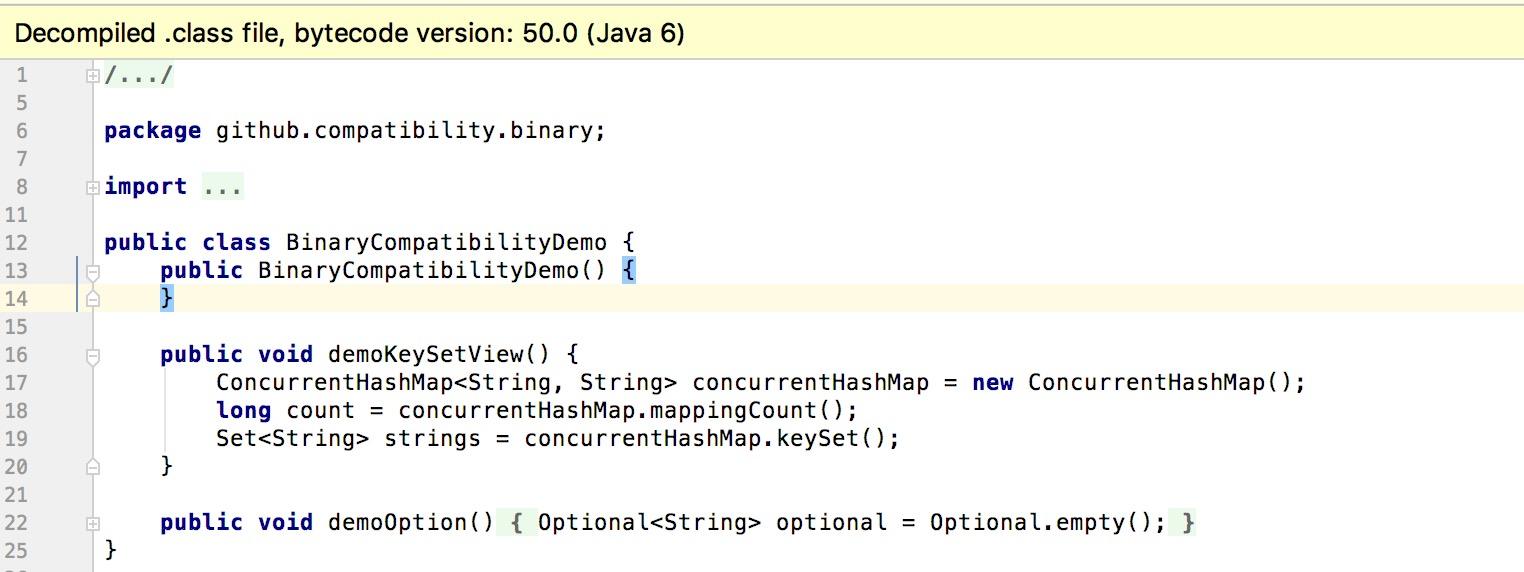
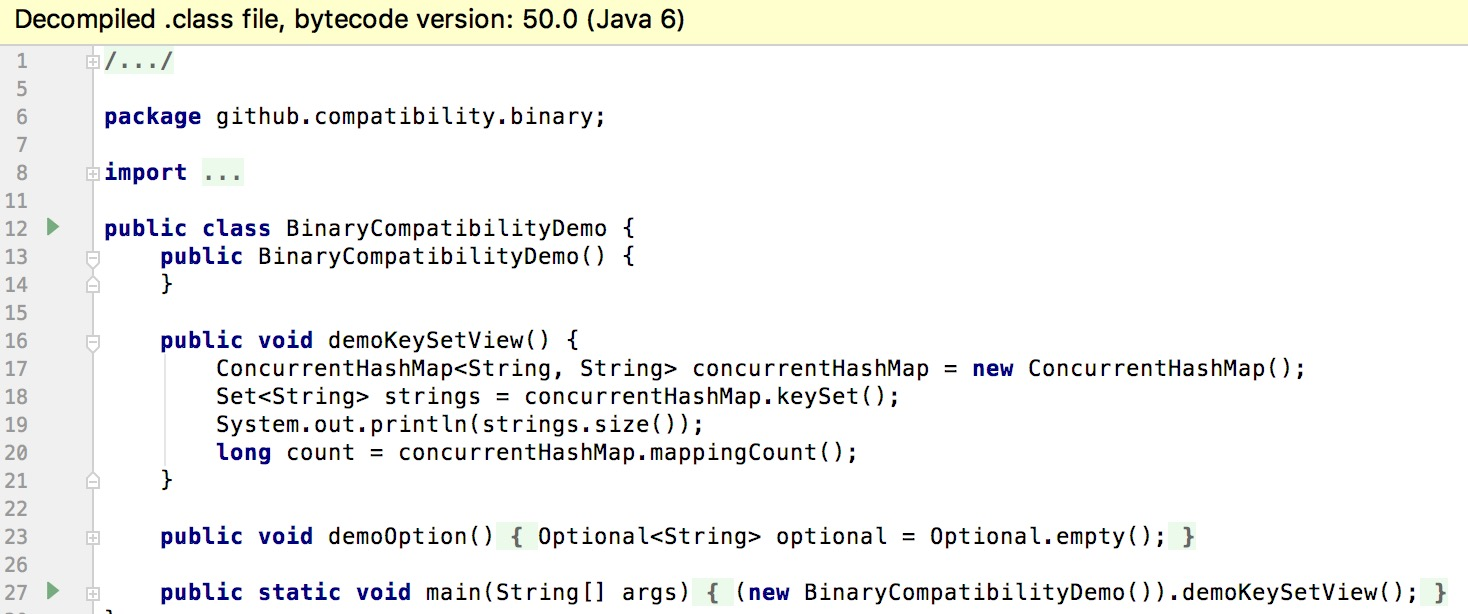
update java-compatibility.md

diff --git a/jdk-compatibility/Java-Compatibility.md b/jdk-compatibility/Java-Compatibility.md
@@ -1,6 +1,6 @@
-# Java 应用程序中的 Java 兼容性问题及解决方案
+# 应用代码中的 Java 兼容性问题
 
-本文主要内容包括 Java 兼容性的定义与分类、常见兼容性案例、规避和解决应用中 Java 兼容性的方法，同时在开源项目基础上定制开发一个用于探测任意三方 jar 和 class 文件 Java 兼容性的检验工具。本文不讨论应用 APIs 变化对上下游应用产生的兼容性，而是关注应用编译、运行在不同版本 JVM 时可能引入的 Java 不兼容性问题。
+本文内容主要有 Java 兼容性的分类、常见案例、规避引入不兼容问题的方法，同时基于开源项目定制一个探测任意三方 jar 的 Java 兼容性的工具。本文不讨论应用 APIs 变化对上下游应用产生的兼容性，而是关注应用编译、运行在不同版本 JVM 时可能引入的 Java 兼容性问题。
 
 ## 一、什么是 Java 的兼容性
 
@@ -10,8 +10,8 @@
 
 通常，Java 兼容性多指向后兼容，主要包括三种：源码（source）、二进制（binary）和运行时行为（behavioral），同时 Java 提供的 APIs、Tools（如 javac）也涉及兼容性<sup>[5]</sup><sup>[6]</sup><sup>[8]</sup>：
 
-1. 源码兼容性（source compatibility）：源码兼容性涉及 Java 源代码编译为类文件，包括映射是否可能、生成的类文件是否合适。
-2. 二进制兼容性（binary compatibility）：在 Java 规范中二进制兼容性被定义保持无链接错误的能力，有时也被称为非源码兼容性。通常，某一版本 JDK 编译出来的 class 文件可以在同版本以及更高版本 JVM 上运行，而不能被低版本 JVM 正确地加载和链接。
+1. 源码兼容性（source compatibility）：源码兼容性涉及 Java 源代码编译为 .class 文件，包括映射是否可能、生成的类文件是否合适。
+2. 二进制兼容性（binary compatibility）：在 Java 规范中二进制兼容性被定义保持无链接错误的能力，有时也被称为非源码兼容性。通常，低版本 JDK 编译出来的 class 文件可以在同版本以及更高版本 JVM 上运行，而不能被更低版本 JVM 正确地加载和链接。
 3. 行为兼容性（behavioral compatibility）：行为兼容性是指在运行时代码执行表达出的语义应该是相同或者等价的。
 4. APIs 兼容性：Java 提供的 API 的所有变化，其中 API 的移除或者签名变化会导致 Java 程序在新版 JDK 中无法编译或运行时错误。 
 5. Tools 兼容性：Java 提供的工具，例如编译工具 javac，这些工具在 Java 发展过程中参数可能会发生变化。
@@ -30,7 +30,7 @@
 
 Oracle 提供了 Java 兼容性指导手册，如 *[Compatibility Guide for JDK 8](https://www.oracle.com/java/technologies/javase/8-compatibility-guide.html)*，我们可以通过这些文档了解 Java 在不同版本间的兼容性变化。
 
-关于代码开发、编译、运行时涉及 Java & JDK 版本的相关内容参考 *[Class 文件格式版本](./ClassFile-Version.md)。*
+关于代码开发、编译和运行阶段涉及 Java & JDK 版本的相关内容参考 *[Class 文件格式版本](https://github.com/elseifer/elseifer.github.io/blob/202004/jdk-compatibility/ClassFile-Version.md)*，本文中提及的类文件（格式）版本、class 文件（格式）版本、字节码版本含义相同，均是指编译生成的 .class 文件首部的 major、minor 字段的值。
 
 ## 二、Java 兼容性的若干案例 
 
@@ -47,7 +47,6 @@ Java 编译器的工作包括将抽象的名称映射到具体的名称，把源
 + JDK6 开发的代码在 Java8 下编译成功，但是程序运行异常，需要对源代码进行修改；
 
 示例代码位于 compatibility-demo 的 [source 分支](https://github.com/elseifer/compatibility-demo/blob/source/src/main/java/github/compatibility/source)
-
 
 ### javac 的不兼容
 如下代码：
@@ -138,25 +137,25 @@ public class SourceCompatibilityDemo {
 
 假设一个方法改变了实现，抛出异常而不是正确的返回结果，对于客户端类而言，这不是二进制兼容性问题，客户端类还是可以正确链接的，同样向接口添加方法也不是二进制兼容性问题，根据旧版本的接口编译的类文件仍将链接到新版本的接口，尽管类没有新方法的实现。如果在运行时调用新方法，则抛出 AbstractMethodError；如果未调用新方法，则可以使用现有方法而不会发生意外（向接口添加方法是源代码不兼容，如果重新编译类文件会失败）。
 
-跨版本的二进制兼容性一直是 JDK 的发展策略，Java 会保留一些旧的不推荐的方法，让引用了这些方法的类文件还可以链接，这也不绝对的，在 Java 9 中就移除了 Unsafe 类中部分存在已久的不推荐的方法，。
-
 这里构造两个代码中会出现的二进制不兼容场景，Java 版本间的二进制兼容案例可以参考 *[JDK 9 Release Notes: Removed APIs, Features, and Options](https://www.oracle.com/java/technologies/javase/9-removed-features.html)*
 
 + Java8 开发的代码（引入高版本特性的）编译为 Java6 格式并运行于 Java6 上；
-+ Java6 开发的代码中依赖了高字节码版本的 Jar，运行于 Java6 上；
++ Java6 开发的代码中依赖了 Java7 版本的 Jar，运行于 Java6 上；
 
 示例代码位于 compatibility-demo 的 [master 分支](https://github.com/elseifer/compatibility-demo/blob/master/src/main/java/github/compatibility/binary)。
 
 ### ConcurrentHashMap.keySet
 
-在 Java8 中 ConcurrentHashMap 的 keySet 方法的返回类型不再是 Set，而是 KeySetView 类，该类在低版本 Java 中不存在。这里我们故意使用 Java8 开发代码，并编译成 Java6 版本（字节码版本为 50），以便代码可以在 Java6 短暂的运行。
+在 Java8 中 ConcurrentHashMap 的 keySet 方法的返回类型不再是 Set，而是 KeySetView 类，该类在 Java6、7 中都是不存在。这里我们故意使用 Java8 开发代码，并编译成 Java6 版本（字节码版本为 50），然后将代码在 Java6 上运行。
 
 ```java
 public class BinaryCompatibilityDemo {
     public void demoKeySetView() {
         ConcurrentHashMap<String, String> concurrentHashMap = new ConcurrentHashMap<String, String>();
-        long count = concurrentHashMap.mappingCount();
         Set<String> strings = concurrentHashMap.keySet();
+        System.out.println(strings.size());
+        //这一行是为了其他的演示，和 keySet 无关
+        long count = concurrentHashMap.mappingCount();
     }
     public static void main(String[] args) {
         new BinaryCompatibilityDemo().demoKeySetView();
@@ -170,6 +169,7 @@ public class BinaryCompatibilityDemo {
     <artifactId>maven-compiler-plugin</artifactId>
     <version>3.8.1</version>
     <configuration>
+        <!---source 必须低于或等于 -target 的值必须一致，需要在 JVM6 上运行，所以设置为 1.6-->
         <source>1.6</source>
         <target>1.6</target>
     </configuration>
@@ -180,13 +180,19 @@ public class BinaryCompatibilityDemo {
 
 ![ConcurrentHashMap 示例的编译产物](./images/concurrentmap.jpg)
 
-在 target/classes 目录下，切换 Java 版本运行代码 `java github.compatibility.binary.BinaryCompatibilityDemo`，在 Java8 下 BinaryCompatibilityDemo 输出结果 0，但是在 Java6 下抛出 NoSuchMethodError 错误（LinkageError 的子类）
+在 target/classes 目录下，切换 Java 版本运行代码 `java github.compatibility.binary.BinaryCompatibilityDemo`，在 Java8 下 BinaryCompatibilityDemo 输出结果 0，但是在 Java6 下抛出 NoSuchMethodError 错误（LinkageError 的子类）。Java6 版本（字节码版本 50）格式的 `BinaryCompatibilityDemo.class` JVM8 下可以正常运行，但在 JVM6 是无法运行。
 
 ![ConcurrentHashMap 示例在不同 Java 版本下的运行结果](./images/concurrentmap_run_result.jpg)
 
+未经过反编译的二进制内容会更加直观明显的展示出问题所在：
+
+![ConcurrentHashMap 示例的编译产物2](./images/concurrentmap_bytecode.jpg)
+
+keySet 的方法签名（这里包括返回类型的）在类版本 50 下是不可能存在的。
+
 ### Apache StringUtils
 
-在 pom.xml 引入如下依赖，该版本的  commons-lang3 的编译版本为 Java7（字节码版本 51）。
+在 pom.xml 引入 3.7 版本的 commons-lang3，它的编译版本为 Java7（字节码版本 51），并在演示代码中使用 StringUtils 工具类。
 
 ```xml
 <dependency>
@@ -214,18 +220,18 @@ public class ApacheUtilsDemo {
 
 ## 三、如何规避代码中引入运行时 Java 兼容性问题
 
-从上面的 [ConcurrentHashMap#keySet](#concurrenthashmapkeyset) 案例知道，设置 `-target` 选项并不能保证代码可以正确地在某一版本的 JRE 上运行，一些较晚出现的 APIs 会在代码运行时产生连接错误，为了避免这个问题，我们可以配置 Java 编译器的引导类路径以匹配目标 JRE 或者使用 Animal Sniffer Maven Plugin 插件。同样的，设置 `-source` 选项也不能保证代码可以在某一版本的 JDK 上编译通过，为了解决这个问题，我们需要使用与启动 Maven 不同的特定 JDK 版本编译代码<sup>[1]</sup>。
+从上面的 [ConcurrentHashMap#keySet](#concurrenthashmapkeyset) 案例知道，设置 `-target` 选项并不能保证代码可以正确地在某一版本的 JRE 上运行，一些较晚出现的 APIs 会在代码运行时产生连接错误，为了避免这个问题，我们可以配置 Java 编译器的引导类路径以匹配目标 JRE 或者使用 Animal Sniffer Maven Plugin 插件。同样的，设置 `-source` 选项也不能保证代码可以在某一版本的 JDK 上编译通过，为了解决这个问题，我们需要设置与运行 Maven 不同的特定版本的 JDK 来编译代码<sup>[1]</sup>。
 
 继续以 compatibility-demo<sup>[7]</sup> 为例，如何规避引入 Java 兼容性问题。
 
 ### 3.1 Animal Sniffer Maven Plugin
 
-The Animal Sniffer Plugin 可以用于构建 APIs 签名以及通过对照 APIs 签名对 class 进行检查，其中使用到的最重要的 APIs 签名就是各版本的 Java APIs 的签名。
+The Animal Sniffer Plugin<sup>[2]</sup> 可以用于构建 APIs 签名以及通过对照 APIs 签名对 class 进行检查。对于源码编译阶段发现 Java APIs 不兼容是比较便利的，但对已经打包的 jar 还需要我们的动手能力来自定义（这在稍后内容也会讨论）。
 
 #### 3.1.1 如何配置
 
-为了对照 APIs 签名检查我们的应用，必须在 `pom.xml` 中配置需要参考的签名<sup>[2]</sup>，例如：
-配置 java1.6 的签名作为参考，在 mvn 编译代码后手动执行 `animal-sniffer:check` 可以进行签名检查，
+为了对照 APIs 签名检查我们的应用，必须在 `pom.xml` 中配置需要参考的签名，例如：
+配置 java1.6 的签名作为参考，在 mvn 编译代码后手动执行 `animal-sniffer:check` 可以进行签名检查
 
 ```xml
 <plugin>
@@ -258,7 +264,6 @@ The Animal Sniffer Plugin 可以用于构建 APIs 签名以及通过对照 APIs 
             <version>1.0</version>
         </signature>
     </configuration>
-
     <!-- compile 阶段自动执行 mvn animal-sniffer:check -->
     <executions>
         <execution>
@@ -274,20 +279,43 @@ The Animal Sniffer Plugin 可以用于构建 APIs 签名以及通过对照 APIs 
 
 #### 3.1.2 使用效果
 
+执行 mvn clean compile 编译代码，Maven 将在 check 阶段报错，animal-sniffer 插件检测出不兼容的 Java Apis 引用，例如 Java8 中新增的 ConcurrentHashMap.KeySetView 类。
 
-### 3.2 Compiling Sources Using A Different JDK
+![animal sniffer](./images/animal_sniffer.jpg)
 
-对于 Maven Compiler Plugin 3.6.0 版本并且 Maven 3.3.1+ 版本<sup>[3]</sup>
+### 3.2 maven-compiler-plugin 指定 JDK Tools
+
+这里涉及 Maven Toolchains 的运用<sup>[3]</sup>，在应用构建过程中 Maven 会使用 JDK 来执行每个阶段：编译源代码、生成 Javadoc、运行单元测试等，每个 Maven 插件可能使用不同的 JDK Tools，例如 javac、javadoc。通过 Toolchains，我们可以指定 Maven 插件使用的 JDK Tool 的路径，并区别于 Maven 实例自身运行的 JDK。
+
+与 -target、-source 不同（本质为使用固定版本的 JDK 生成不同字节码版本的 .class 文件），通过 maven-compiler-plugin 指定 JDK Tools 更类似于切换编译环境的 JDK 版本，也能更好的避免引入 JDK 不兼容问题。
 
 #### 3.2.1 如何配置
-
+示例代码位于 compatibility-demo 的 [javacpath 分支](https://github.com/elseifer/compatibility-demo/blob/javacpath/pom.xml)，其中 ${JAVA_7_HOME} 可以在 pom.xml 或者 setting.xml 中指定。</br>
+```
+<plugin>
+    <groupId>org.apache.maven.plugins</groupId>
+    <artifactId>maven-compiler-plugin</artifactId>
+    <version>3.8.1</version>
+    <configuration>
+        <verbose>true</verbose>
+        <fork>true</fork>
+        <executable>${JAVA_7_HOME}/bin/javac</executable>
+        <compilerVersion>1.7</compilerVersion>
+    </configuration>
+</plugin>
+```
 
 #### 3.2.2 使用效果
 
+运行 `mvn clean compile --settings ./settings-os.xml -X` ，其中 `-X` 可以将 Maven 的 DEBUG 信息打印出来，帮助我们查看 maven-compiler-plugin 的运行参数：
+![mvn compiler](./images/mvn_compiler_config.jpg)
+
+</br>由于示例代码中使用 Java8 API，maven-compiler 编译抛出错误：
+![mvn compiler](./images/mvn_compiler.jpg)
 
 ### 3.3 小结
 
-通过上述方式基本可以的避免引入 Java 兼容性问题，但我们日常的研发环境中代码编译过程大部分都在统一的构建平台进行，一些外部环境是 maven 插件不能控制的，构建平台升级 JDK 也可能把 Java 兼容性问题引入到应用中。时刻保持代码编译、打包和运行时的 JDK 版本一致是解决应用引入 Java 兼容性问题的最好方式<sup>[8]</sup>。
+通过实践操作证明，上述方式可以避免在代码中引入 Java 兼容性问题，但我们日常的研发环境中代码编译过程大部分都在统一的构建平台进行，一些外部环境是 maven 插件不能控制的，构建平台升级 JDK 也可能把 Java 兼容性问题引入到应用中。时刻保持代码编译、打包和运行时的 JDK 版本一致是解决应用引入 Java 兼容性问题的最好方式<sup>[8]</sup>。
 
 ## 四、如何探测应用引入的 jar 潜在 Java 兼容问题
 
@@ -295,7 +323,7 @@ The Animal Sniffer Plugin 可以用于构建 APIs 签名以及通过对照 APIs 
 
 ### 4.1 改造 animal-sniffer
 
-通过阅读 animal-sniffer-maven-plugin 的源码，我发现它是基于 ASM 对字节码进行检查，加之有过 ASM 开发工具的经验，于是我设想把参考的 APIs 签名默认限制为 Java APIs 签名，调整检测目标为任意三方 jar 和class 目录来对它进行改造。在[我的 github](https://github.com/elseifer) 上可以获取 [animal-sniffer-jar-with-dependencies](https://github.com/elseifer/animal-sniffer/blob/enhance-signature-checker/animal-sniffer/src/main/java/org/codehaus/mojo/animal_sniffer/enhanced/EnhancedSigChecker.java) 的源代码，作为 animal-sniffer 变种，它完整包含所有依赖、可脱离 Maven 环境独立运行，可检查第三方 jar 而无需源代码，同时修复了一些 NPE 问题。
+通过阅读 animal-sniffer-maven-plugin 的源码，我发现它是基于 ASM 对字节码进行检查，加之有过 ASM 开发工具的经验，于是我设想把参考的 APIs 签名默认限制为 Java APIs 签名，调整检测目标为任意三方 jar 和 .class 文件路径来对它进行改造。在[我的 github](https://github.com/elseifer) 上可以获取 [animal-sniffer-jar-with-dependencies](https://github.com/elseifer/animal-sniffer/blob/enhance-signature-checker/animal-sniffer/src/main/java/org/codehaus/mojo/animal_sniffer/enhanced/EnhancedSigChecker.java) 的源代码，作为 animal-sniffer 变种，它完整包含所有依赖、可脱离 Maven 环境独立运行，可检查第三方 jar 而无需源代码，同时修复了一些 NPE 问题。
 
 ### 4.2 实践
 
@@ -305,6 +333,8 @@ The Animal Sniffer Plugin 可以用于构建 APIs 签名以及通过对照 APIs 
 
 示例运行结果：</br>
 ![jar checker](./images/jar-checker.jpg)
+
+和上文 3.1.2 部分的效果类似，animal-sniffer-jar-with-dependencies 检测也出 Java6 格式的 .class 文件中出现了不兼容的签名引用，包括 Java8 中新增的 ConcurrentHashMap.KeySetView 类、Optional 类、签名不兼容的 KeySetView ConcurrentHashMap.keySet 方法、新增的 ConcurrentHashMap.mappingCount 方法。
 
 animal-sniffer-jar-with-dependencies 可以检查第三方依赖的 Java 兼容性问题，但是局限于 Java APIs 变化或编译格式导致的源码和二进制兼容性问题，并不适用于全部类型的 Java 兼容性问题检查。
 
